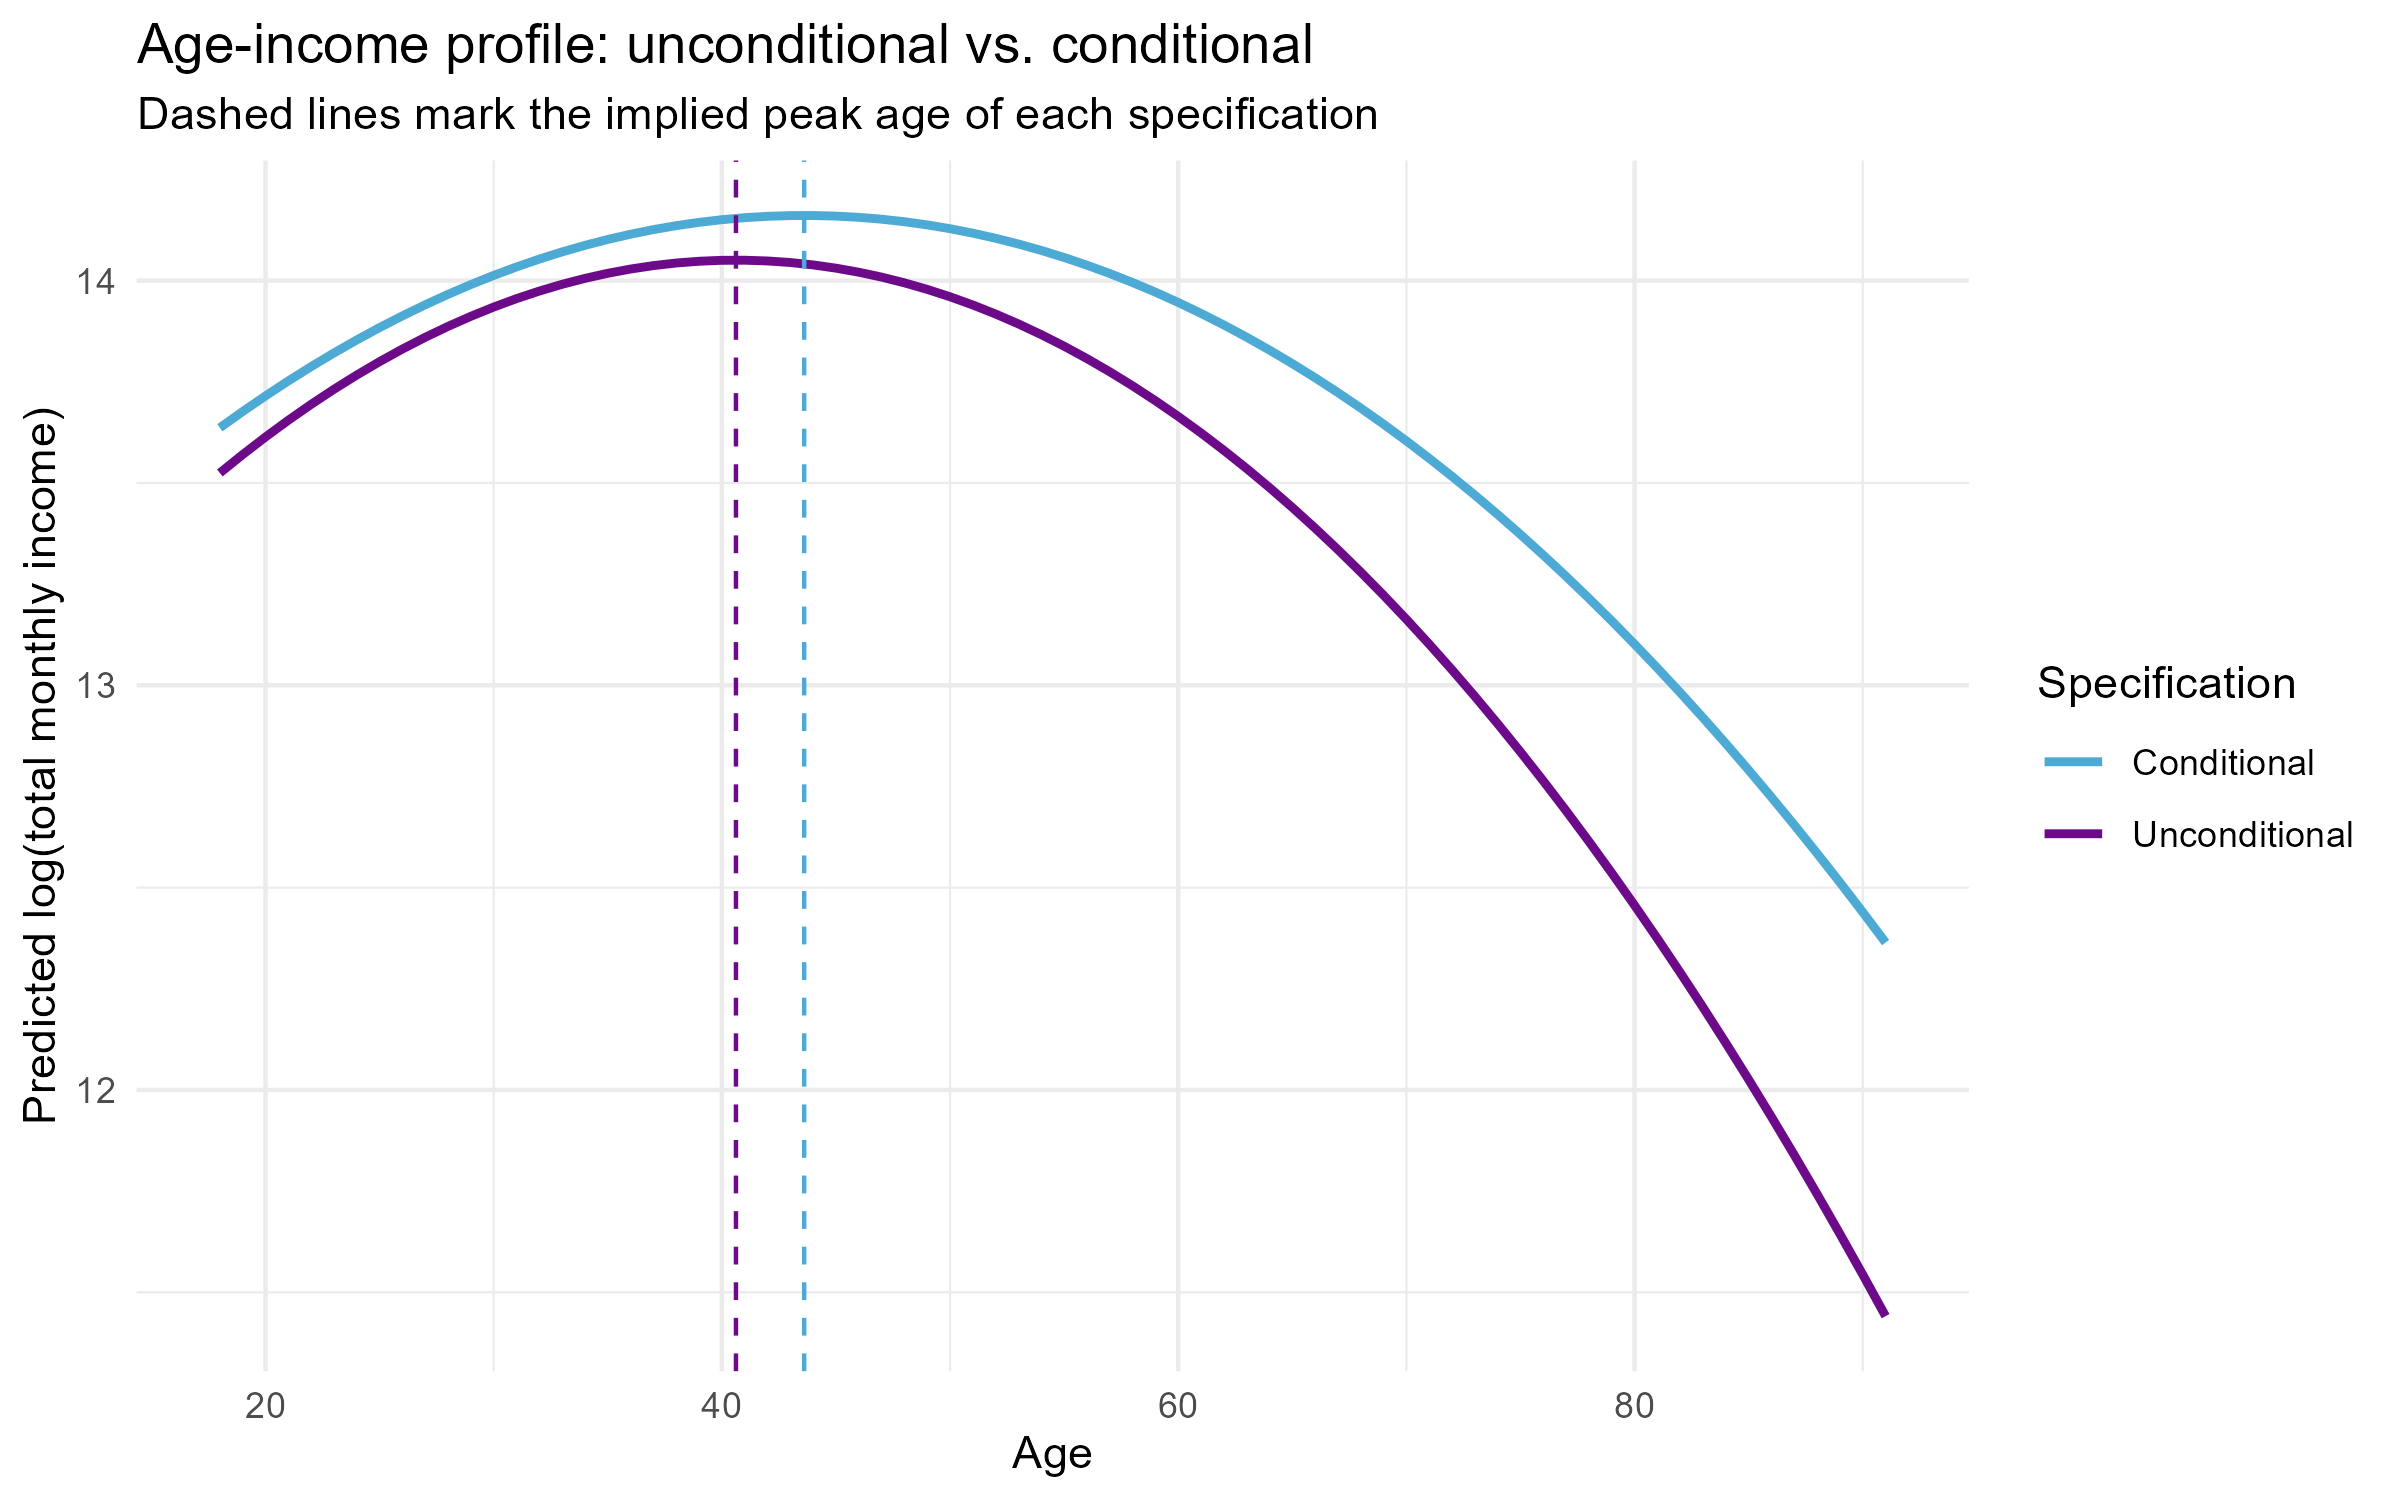
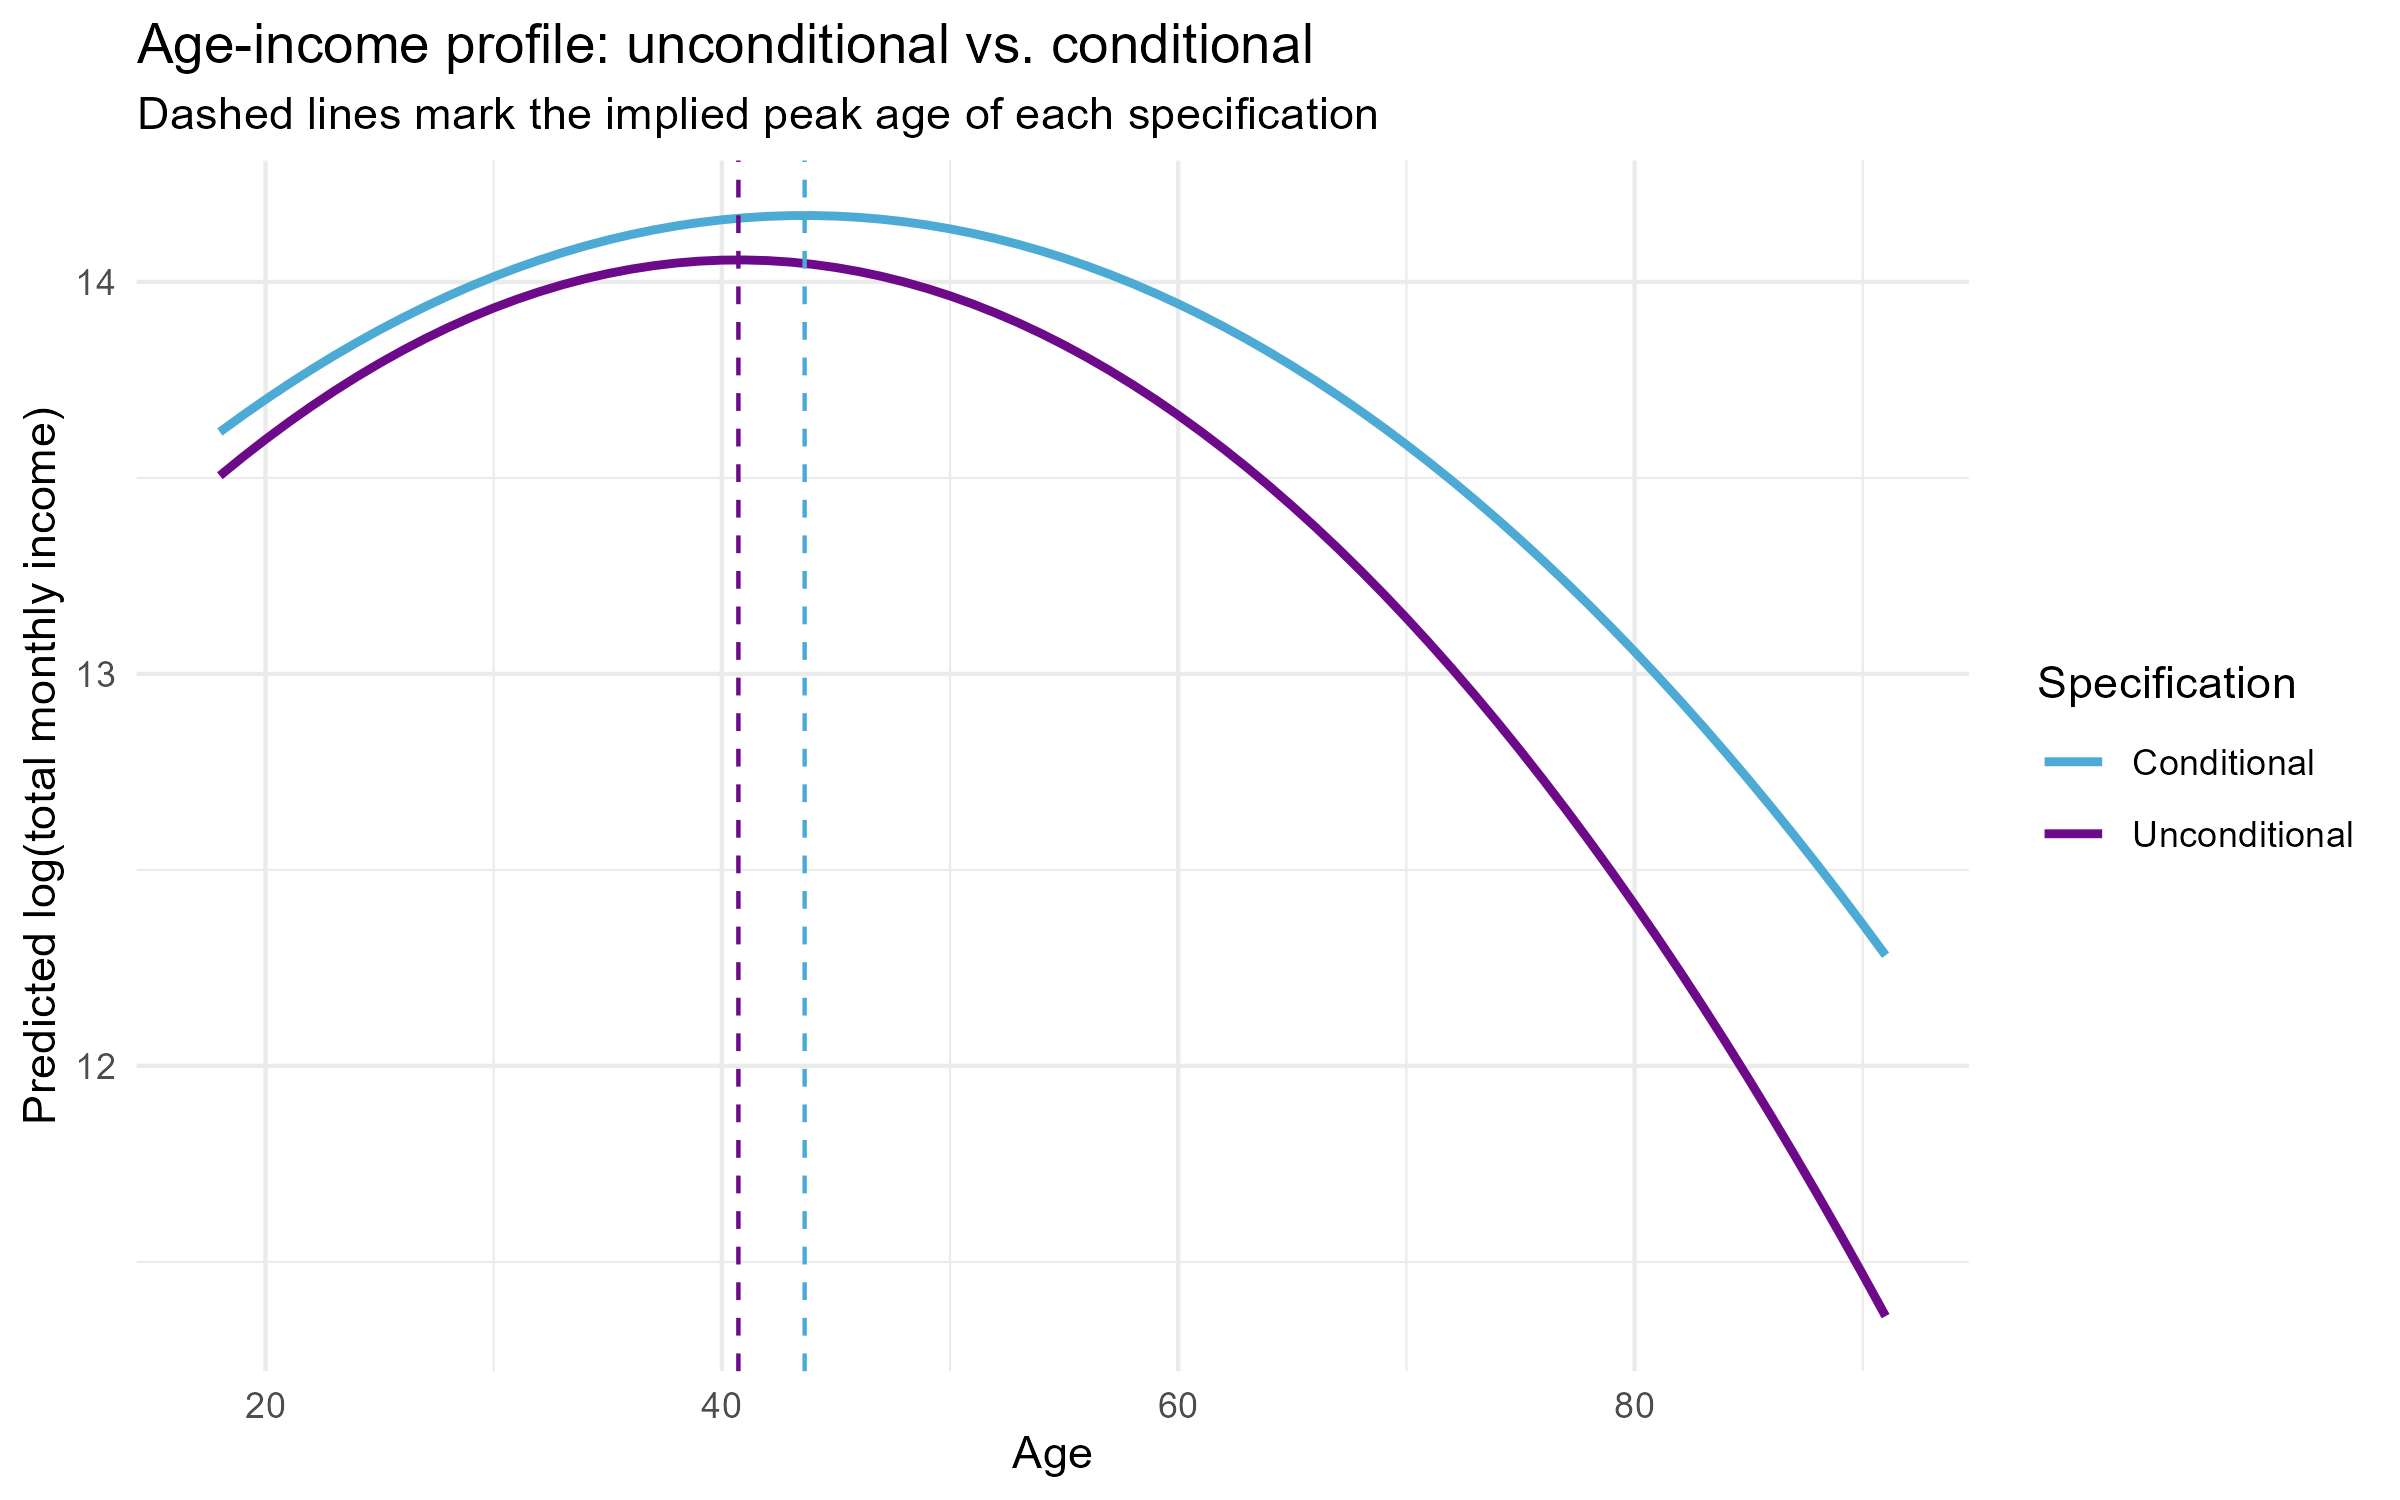
Weight age-income regressions by fex_c and tidy script header

diff --git a/output/tables/age_income_regression.tex b/output/tables/age_income_regression.tex
@@ -7,22 +7,22 @@
 \toprule
 Term & Model 1 & SE (Model 1) & Model 2 & SE (Model 2)\\
 \midrule
-(Intercept) & 12.3545 & 0.0636 & 12.0231 & 0.0595\\
-age & 0.0835 & 0.0032 & 0.0698 & 0.0029\\
-age2 & -0.0010 & 0.0000 & -0.0008 & 0.0000\\
-totalHoursWorked & NA & NA & 0.0130 & 0.0004\\
-factor(relab)2 & NA & NA & 0.7558 & 0.0343\\
+(Intercept) & 12.2882 & 0.0644 & 11.9621 & 0.0603\\
+age & 0.0868 & 0.0032 & 0.0734 & 0.0030\\
+age2 & -0.0011 & 0.0000 & -0.0008 & 0.0000\\
+totalHoursWorked & NA & NA & 0.0127 & 0.0004\\
+factor(relab)2 & NA & NA & 0.7398 & 0.0346\\
 \addlinespace
-factor(relab)3 & NA & NA & -0.6937 & 0.0349\\
-factor(relab)4 & NA & NA & -0.4867 & 0.0153\\
-factor(relab)5 & NA & NA & 0.2269 & 0.0378\\
-factor(relab)8 & NA & NA & -0.6556 & 0.7890\\
-factor(relab)9 & NA & NA & -1.1815 & 0.2792\\
+factor(relab)3 & NA & NA & -0.6972 & 0.0349\\
+factor(relab)4 & NA & NA & -0.4922 & 0.0153\\
+factor(relab)5 & NA & NA & 0.2183 & 0.0373\\
+factor(relab)8 & NA & NA & -0.6451 & 0.8475\\
+factor(relab)9 & NA & NA & -1.1202 & 0.2903\\
 \addlinespace
-Peak age & 40.6178 & NA & 43.6078 & NA\\
-Peak age CI lower & 40.0753 & NA & 42.8409 & NA\\
-Peak age CI upper & 41.1828 & NA & 44.4307 & NA\\
-R-squared & 0.0500 & NA & 0.2264 & NA\\
+Peak age & 40.7245 & NA & 43.6278 & NA\\
+Peak age CI lower & 40.1828 & NA & 42.8929 & NA\\
+Peak age CI upper & 41.2705 & NA & 44.4213 & NA\\
+R-squared & 0.0522 & NA & 0.2272 & NA\\
 \bottomrule
 \end{tabular}}
 \end{table}
